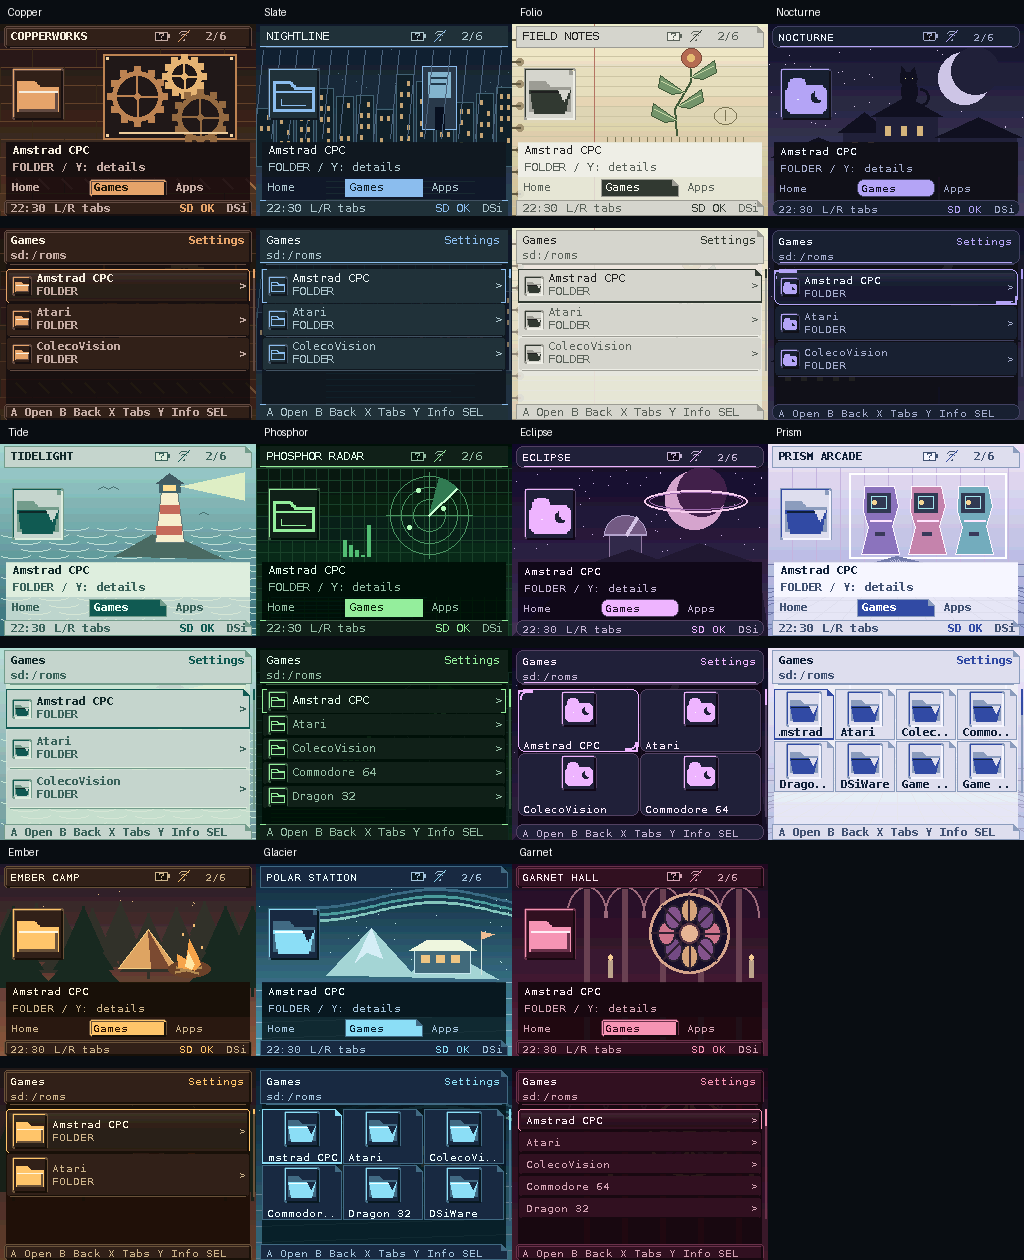
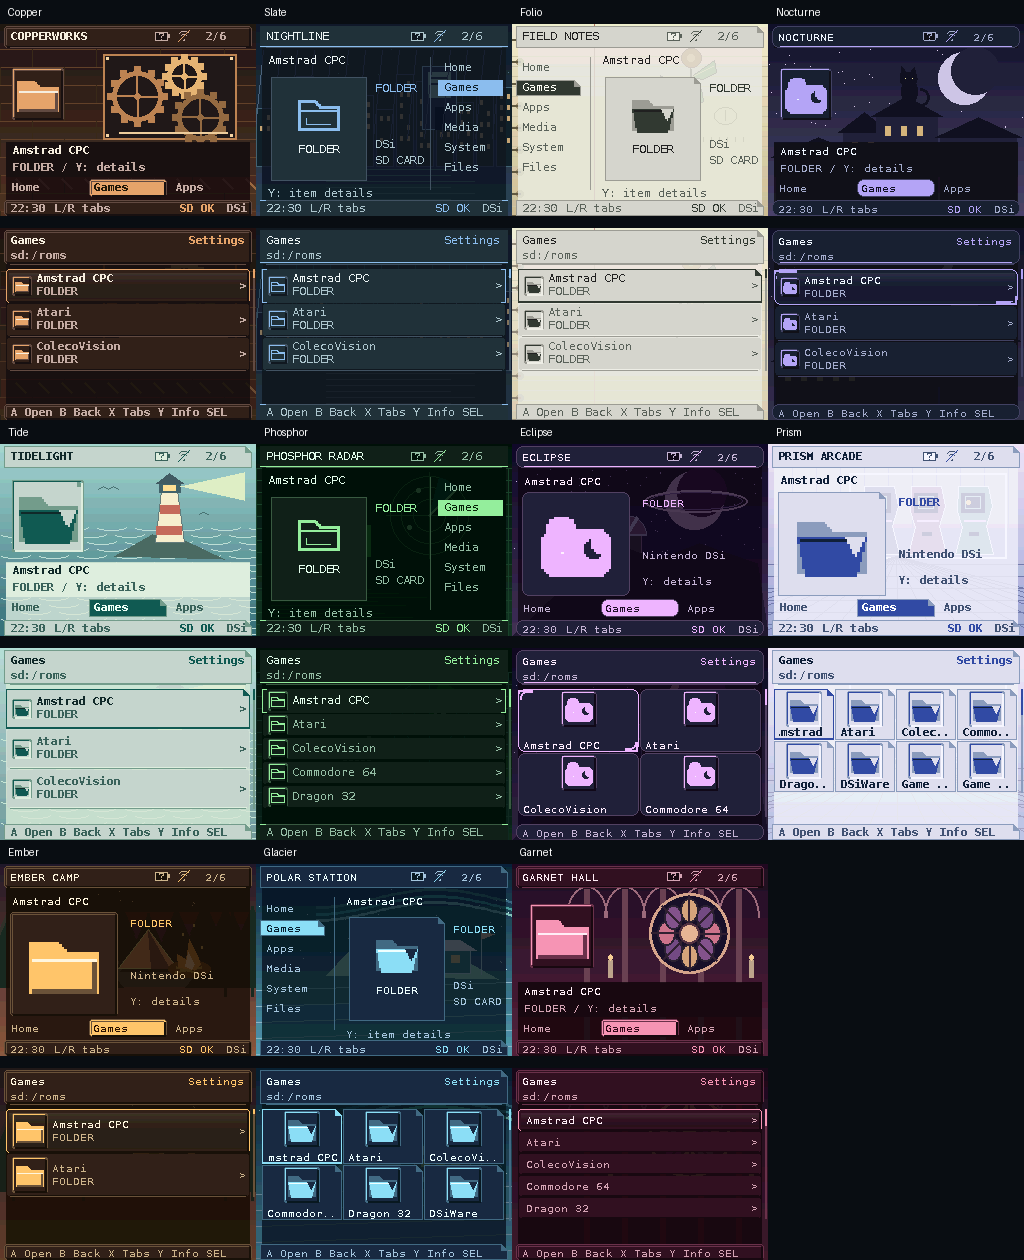
Vary bundled themes across scene, poster and sidebar layouts

diff --git a/docs/guides/THEME_PACKAGES.md b/docs/guides/THEME_PACKAGES.md
@@ -74,9 +74,20 @@ A, or cancel with B. The packages are ready to copy; no build step is needed.
 | Glacier | Polar research outpost beneath an aurora. | Ice-blue panels and larger grid tiles. |
 | Garnet | Rose window and candlelit gothic hall. | Burgundy surfaces and a text-first browser. |
 
-All eleven packs include original native-resolution illustrations. Their scene
-layouts expose the illustration above a separate live item inspector and tab
-strip. Icons, cover art, labels and status remain live; none are baked into the
+All eleven packs include original native-resolution illustrations, with four
+screen compositions chosen to suit their character:
+
+- **Scene — Copper, Nocturne, Tide and Garnet:** illustration above a compact
+  inspector and horizontal tabs. Tide uses a larger thumbnail; Garnet a portrait
+  framed thumbnail beside its rose window.
+- **Poster — Eclipse, Prism and Ember:** large artwork beside title details,
+  with horizontal tabs below.
+- **Left sidebar — Folio and Glacier:** navigation on the left, artwork and
+  information on the right.
+- **Right sidebar — Slate and Phosphor:** artwork and information on the left,
+  with a persistent tab list on the right.
+
+Icons, cover art, labels and status remain live; none are baked into the
 background. Ordinary dialogs keep a shaded reading surface. Personal view,
 audio and Reduced motion preferences still apply.
 
@@ -308,8 +319,7 @@ settings values and other dialog text retain their established palette roles;
 check these against the selected component artwork too. PNG colors are not
 recolored by palette or accent changes.
 
-The bundled packs demonstrate Scene; right/left rails and Poster remain available
-for personal themes. These compositions
+The bundled packs demonstrate Scene, both sidebar directions and Poster. These compositions
 work with all browser views and do not change bottom-screen touch targets.
 
 ## Theme icon packs
